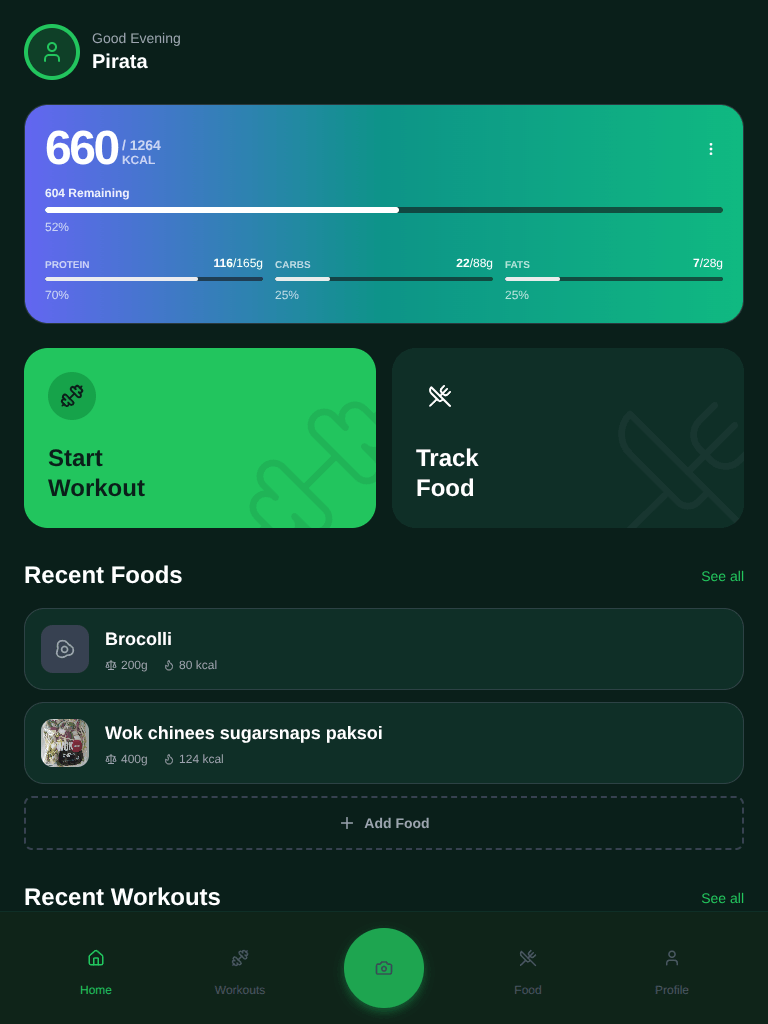
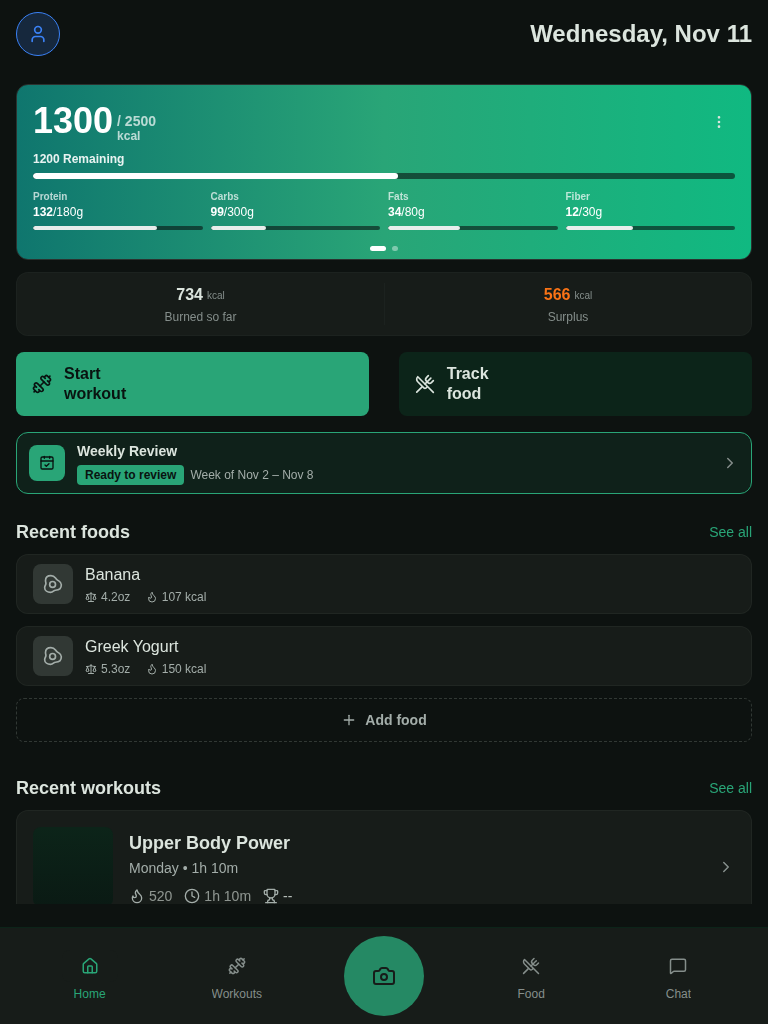
add google play screenshots

diff --git a/tests/google-play-screenshots.spec.ts b/tests/google-play-screenshots.spec.ts
@@ -1,0 +1,71 @@
+import { test } from '@playwright/test';
+import fs from 'fs';
+import path from 'path';
+
+import settingsCopy from '../lang/locales/en-us/settings.json';
+import workoutSessionCopy from '../lang/locales/en-us/workoutSession.json';
+import startWorkoutCopy from '../lang/locales/en-us/startWorkout.json';
+import goalsManagementCopy from '../lang/locales/en-us/goalsManagement.json';
+import { DEFAULT_THEME_BY_MODE } from '../theme.registry';
+import { clickTopmost } from './layoutAudit/flowKit';
+import {
+  APP_URL,
+  capture,
+  installFixtureRoutes,
+  navigateTo,
+  seedDemoData,
+  selectTheme,
+} from './helpers/screenshotSession';
+
+// The captured screens (`<project>/<name>.png`).
+const GOOGLE_PLAY_OUTPUT_DIR = path.join('screenshots', 'google-play');
+// The workout the demo data holds that reads as a real session; the session's first exercise is
+// the barbell squat.
+const WORKOUT_NAME = 'Leg Day / Squats';
+
+test.describe('Google Play screenshots', () => {
+  test.use({ reducedMotion: 'reduce', locale: 'en-US', actionTimeout: 15000 });
+  test.setTimeout(1800000);
+
+  test('Capture the tablet listing screens', async ({ page }, testInfo) => {
+    const outputDir = path.join(GOOGLE_PLAY_OUTPUT_DIR, testInfo.project.name);
+    fs.rmSync(outputDir, { recursive: true, force: true });
+    fs.mkdirSync(outputDir, { recursive: true });
+    const shot = (name: string, waitTime?: number) =>
+      capture(page, path.join(outputDir, `${name}.png`), waitTime);
+
+    await installFixtureRoutes(page);
+    await seedDemoData(page);
+    await selectTheme(page, DEFAULT_THEME_BY_MODE.dark);
+
+    // Home and the food diary first: starting a workout leaves a session for Home to offer back.
+    await navigateTo(page, APP_URL);
+    await shot('home');
+
+    await navigateTo(page, `${APP_URL}/nutrition/food`);
+    await shot('food');
+
+    // Goals management opens from the day summary's menu.
+    await clickTopmost(page.getByTestId('daily-summary-menu'));
+    await clickTopmost(
+      page.getByText(settingsCopy.settings.advancedSettings.manageGoalsData, { exact: true })
+    );
+    await page
+      .getByText(goalsManagementCopy.goalsManagement.title, { exact: true })
+      .first()
+      .waitFor();
+    await shot('goals', 2000);
+
+    // A live session, started from the library the way a person starts it.
+    await navigateTo(page, `${APP_URL}/workout/workouts`);
+    const card = page
+      .getByTestId('workout-card-preview')
+      .filter({ hasText: WORKOUT_NAME })
+      .locator('xpath=..');
+    await clickTopmost(card.getByRole('button', { name: startWorkoutCopy.startWorkout.start }));
+    await page.waitForURL(/workout-session/, { timeout: 30000 });
+    // The inline view lists the sets; the guided one's stepper is cut off at a 10-inch height.
+    await clickTopmost(page.getByText(workoutSessionCopy.trainingFlow.inline, { exact: true }));
+    await shot('workout', 1500);
+  });
+});

diff --git a/scripts/sync-google-play-screenshots.js b/scripts/sync-google-play-screenshots.js
@@ -1,0 +1,70 @@
+#!/usr/bin/env node
+/* eslint-disable no-undef */
+
+// Copies the Google Play captures (`screenshots/google-play/<device>/<screen>.png`, written by
+// tests/google-play-screenshots.spec.ts) over the listing images in android/play/metadata/en-US/images.
+// Only the files named below are replaced; every other listing image is left alone. Publishing
+// them is a separate, deliberate step (`scripts/play.sh up --with-images`).
+const fs = require('fs');
+const path = require('path');
+
+const ROOT = path.join(__dirname, '..');
+const CAPTURES = path.join(ROOT, 'screenshots', 'google-play');
+const LISTING = path.join(ROOT, 'android', 'play', 'metadata', 'en-US', 'images');
+
+const DEVICES = {
+  'tablet-7': { folder: 'sevenInchScreenshots', width: 768, height: 1024 },
+  'tablet-10': { folder: 'tenInchScreenshots', width: 1100, height: 1466 },
+};
+
+// device -> [capture name, listing file]
+const TARGETS = {
+  'tablet-7': [
+    ['food', '01.png'],
+    ['home', '02.png'],
+    ['workout', '03.png'],
+    ['goals', '04.png'],
+  ],
+  'tablet-10': [
+    ['home', '02.png'],
+    ['goals', '03.png'],
+    ['workout', '04.png'],
+    ['food', '05.png'],
+  ],
+};
+
+/** Width and height from a PNG's IHDR chunk. */
+function pngSize(file) {
+  const header = fs.readFileSync(file).subarray(0, 24);
+  if (header.toString('latin1', 1, 4) !== 'PNG') {
+    throw new Error(`${file} is not a PNG`);
+  }
+
+  return { width: header.readUInt32BE(16), height: header.readUInt32BE(20) };
+}
+
+// Check everything before copying anything, so a failed capture never leaves a half-updated listing.
+const plan = [];
+for (const [device, targets] of Object.entries(TARGETS)) {
+  const { folder, width, height } = DEVICES[device];
+  for (const [name, file] of targets) {
+    const source = path.join(CAPTURES, device, `${name}.png`);
+    if (!fs.existsSync(source)) {
+      throw new Error(`Missing capture ${source}; run npm run screenshots:google-play:run`);
+    }
+
+    const size = pngSize(source);
+    if (size.width !== width || size.height !== height) {
+      throw new Error(
+        `${source} is ${size.width}x${size.height}, the listing expects ${width}x${height}`
+      );
+    }
+
+    plan.push([source, path.join(LISTING, folder, file)]);
+  }
+}
+
+for (const [source, target] of plan) {
+  fs.copyFileSync(source, target);
+  console.log(`${path.relative(ROOT, source)} -> ${path.relative(ROOT, target)}`);
+}

diff --git a/playwright.google-play.config.ts b/playwright.google-play.config.ts
@@ -1,0 +1,21 @@
+import { defineConfig } from '@playwright/test';
+
+// Captures the tablet screenshots of the Google Play listing. Run through
+// `npm run screenshots:google-play`, which then copies them into `android/play/metadata`.
+export default defineConfig({
+  testMatch: ['**/tests/google-play-screenshots.spec.ts'],
+  timeout: 600000,
+  use: { headless: true },
+  projects: [
+    {
+      name: 'tablet-7',
+      // 768 × 1024px, the size of android/play/metadata/en-US/images/sevenInchScreenshots
+      use: { viewport: { width: 768, height: 1024 }, deviceScaleFactor: 1 },
+    },
+    {
+      name: 'tablet-10',
+      // 1100 × 1466px (the old images were 1467; Play only bounds the ratio), tenInchScreenshots
+      use: { viewport: { width: 550, height: 733 }, deviceScaleFactor: 2 },
+    },
+  ],
+});

diff --git a/AGENTS.md b/AGENTS.md
@@ -66,6 +66,7 @@ The agent files hold the same pins (`utils/__tests__/agentOrchestration.test.ts`
 - `npm run screenshots:wrapped`: build, then capture "Your year in Musclog" only (`tests/screenshot-wrapped.spec.ts`, `screenshots:wrapped:run` skips the build). Both device projects write `screenshots/app-store/<theme>/<device>/wrapped/`: every story poster (`NN-story`), the share sheet closed and with both extras on, the empty year and `00-home-offer.png`. The story is captured for the current year (the year the demo data lives in) through `?year=`; the Home offer exists only from 1 December to 31 January, so that capture runs last with `page.clock.setFixedTime` inside the season (the fixed time cannot be undone for the context) and shoots the card element, since the rest of Home would read "today" as a month past the seeded data. The poster count comes from the progress label (`yearInReview.stepOf`), so a new card needs no spec change. Add further Wrapped screens to this spec, not to the app-store one.
 - `npm run screenshots:all`: builds once, then runs the app-store suite, the Wrapped suite, `screenshots:sync-legacy` (copies captures over the legacy `screenshots/app-store/{portrait-6.5,portrait-6.7,main}` folders by screen name; unmatched legacy files stay), and the website suite plus its sync
 - `npm run screenshots:app-store`: same as `npm run screenshots`
+- `npm run screenshots:google-play`: build, capture the tablet frames of the Play listing (`tests/google-play-screenshots.spec.ts` via `playwright.google-play.config.ts`: `tablet-7` 768×1024, `tablet-10` 1100×1466; home, food diary, Goals management opened from the day summary menu, and a live Leg Day session in the Inline view, default dark theme) into `screenshots/google-play/<device>/`, then `screenshots:google-play:sync` (`scripts/sync-google-play-screenshots.js`) copies them over exactly these listing files and nothing else: `sevenInchScreenshots/01` food, `02` home, `03` workout, `04` goals; `tenInchScreenshots/02` home, `03` goals, `04` workout, `05` food (it refuses a capture of the wrong size). The phone screenshots and the other tablet slots stay untouched. Publishing them is still the separate `scripts/play.sh up --with-images`, only when the user asks. `:run` skips the build.
 - `npm run screenshots:website`: build, then capture and publish every image the public website ships. `screenshots:themes` / `screenshots:carousel` run one half, via `playwright.website.config.ts`, `tests/website-{themes,carousel}-screenshots.spec.ts` and `tests/helpers/screenshotSession.ts`. Themes: the home screen in every `THEME_IDS` entry at 1083×2340 → `screenshots/themes/musclog-theme-<id>.png`; `scripts/sync-website-screenshots.js` (`screenshots:website:sync`) converts them to `public/images/themes/<id>.webp` and the themes blog post copies in `public/images/blog/2026/09/`. Carousel: only the routable slides (home, food, workouts → `screenshots/phone/screenshot-{1,2,3}.png`, which `public/images/phone` symlinks); the other slides need scripted interaction and stay hand-curated. `:run` variants skip the build for an existing `dist/`. A new screenshot type gets its own command and joins `screenshots:all`.
 - `npm run layout:audit`: build (`screenshots:build`, which the `/app/test/modals` fixture needs), then audit the web build for cramped layouts and write `layout-audit-report/report.html` (open it: every audited page as a screenshot, grouped by screen, one row per language and one card per phone size, findings outlined, click for the list), `report.md`, `report.json` and one JPEG per page under `screens/`. `layout:audit:run` skips the build for an existing `dist/`; `layout:audit:android` audits a connected device (experimental); `layout:scan` ranks source files by static risk signals. Full rules in `docs/DESIGN.md` → Layout audit.
   - **Profiles come from `docs/SCREEN_SIZES.md`, expanded by `tests/layoutAudit/devices.ts`.** The document lists physical pixels, so each resolution carries ASSUMED densities (`ASSUMED_DENSITIES`, every plausible one kept so the narrowest layout is tested; a new resolution needs a row or gets `fallbackDensity`) and large text is the progression config's emulation (viewport ÷ font scale, device scale factor × font scale). `MUSCLOG_LAYOUT_SET` picks `quick` (default: narrowest and shortest phone at 1.3×, narrowest at 1×), `phones` or `all`.

diff --git a/docs/GOOGLE_PLAY.md b/docs/GOOGLE_PLAY.md
@@ -82,8 +82,13 @@ edit and deletes it on exit unless committed, since Play allows one open edit pe
 `--changes-not-sent-for-review` and is only for managed publishing.
 
 Images are not automated yet: `pull` downloads them (the export only writes `*_meta.json`; the files come
-from the public url plus `=s0`, hash-checked) so a fresh `pull` then `plan` shows no changes. Wiring in
-the Playwright screenshots (`npm run screenshots*`) is a later step.
+from the public url plus `=s0`, hash-checked) so a fresh `pull` then `plan` shows no changes.
+
+`npm run screenshots:google-play` regenerates eight of them in the repo: the home, food, Goals management
+and live-workout frames of `sevenInchScreenshots/01-04` and `tenInchScreenshots/02-05` (the mapping is
+`TARGETS` in `scripts/sync-google-play-screenshots.js`; every other listing image is left alone). It only
+rewrites files under `android/play/`; publishing them stays `scripts/play.sh up --with-images`, run on
+request. Captures land in `screenshots/google-play/<tablet-7|tablet-10>/` first.
 
 Every text change covers all locales (`en-US`, `es-ES`, `nl-NL`, `pt-BR`, `ru-RU`, matching the languages
 the app ships) and must match what the app does. Cycle copy never promises phase-based training advice.
